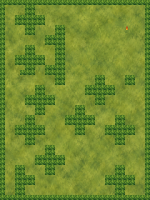
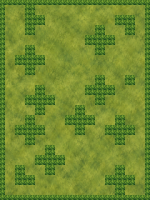
Include the latest saved meadow edits

diff --git a/CHANGELOG.md b/CHANGELOG.md
@@ -1,5 +1,9 @@
 # Changelog
 
+## [0.2.14] - 2026-10-28
+
+- Include the latest saved Meadow layouts for levels 3, 13 and 35.
+
 ## [0.2.13] - 2026-10-28
 
 - Play the updated editor-made campaign layouts, including readable YUM hedges in level 14.
